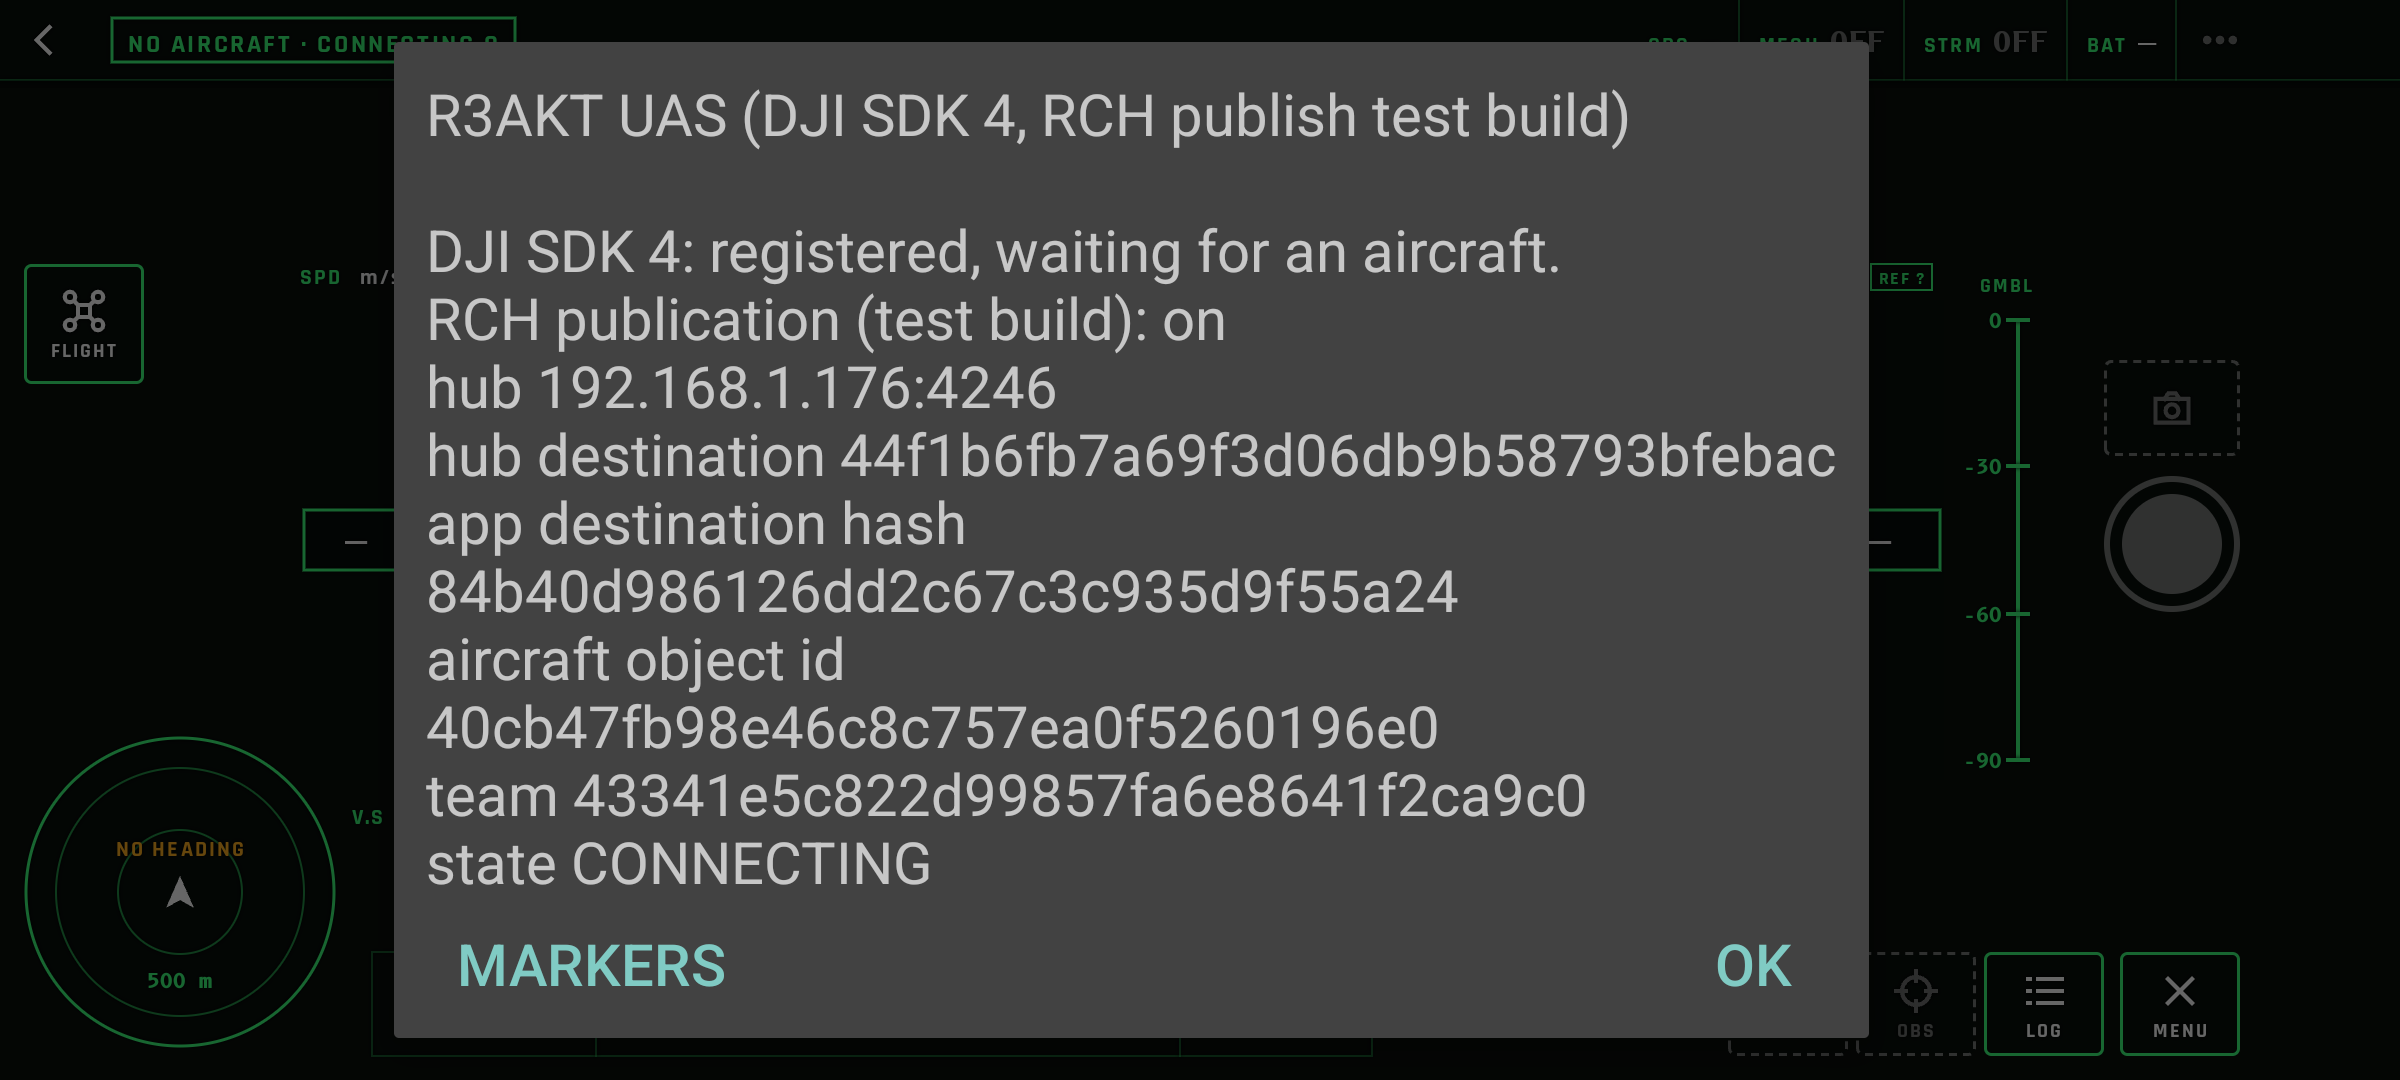
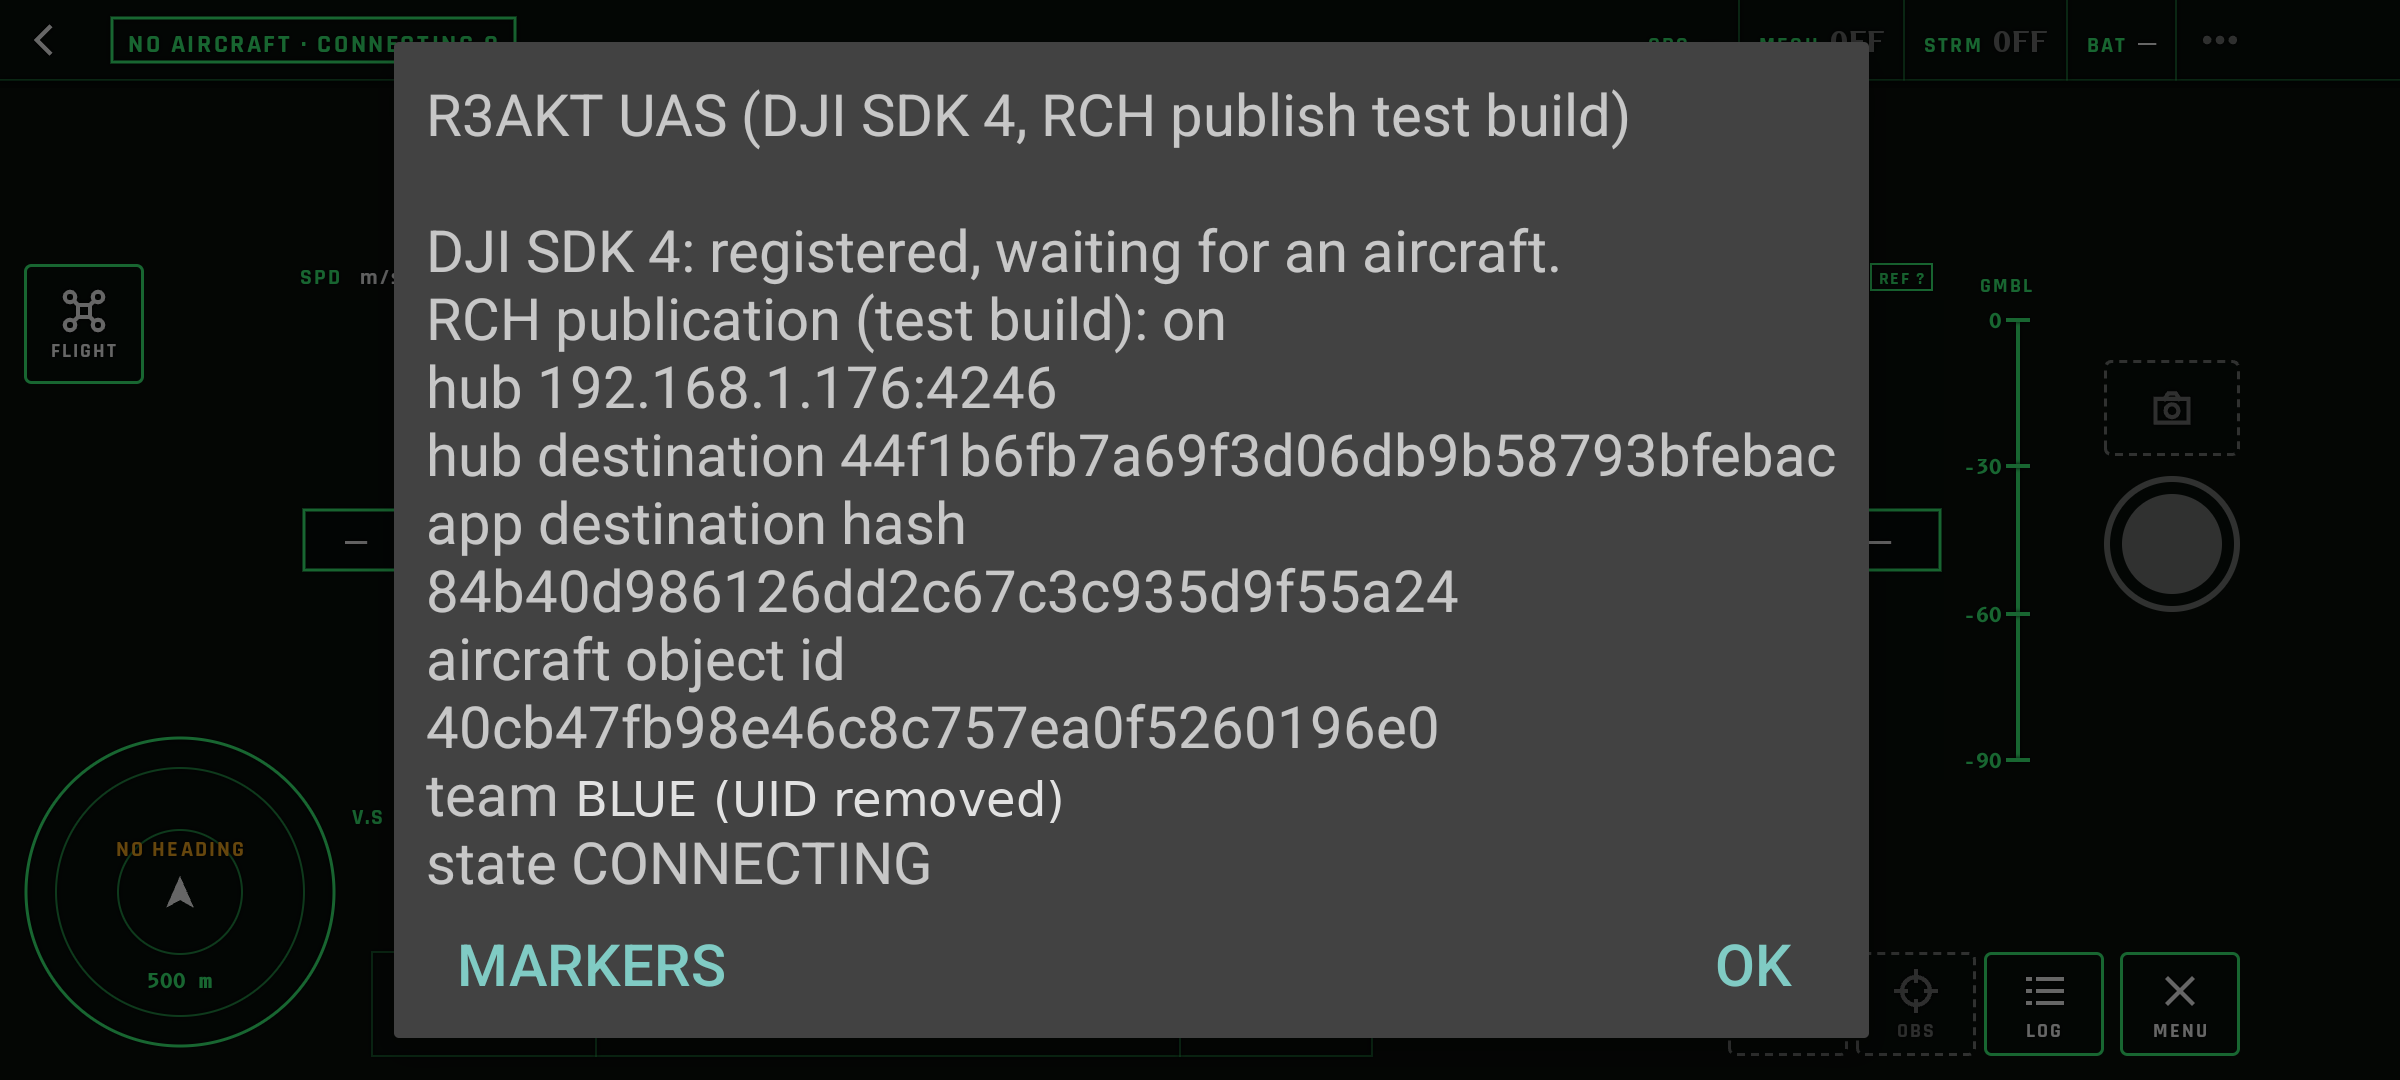
chore: remove the test hub's address, destination and team UID from the repository
Docs use <hub-address>, <hub-destination> and <team-blue-uid> placeholders; Rust tests take
the BLUE UID from r3akt-profile-rch; two evidence screenshots have the UID covered.

Changed region(s): [[0.2188, 0.7028, 0.6562, 0.7639]]

diff --git a/crates/r3akt-uas-app/src/publish.rs b/crates/r3akt-uas-app/src/publish.rs
@@ -842,7 +842,10 @@ mod tests {
         }
     }
 
-    const BLUE: &str = "43341e5c822d99857fa6e8641f2ca9c0";
+    /// RCH's canonical BLUE team UID, from the shared profile.
+    fn blue() -> &'static str {
+        r3akt_profile_rch::teams::canonical_team_uid_for_color("BLUE").unwrap()
+    }
 
     fn decode_one(id: &AppIdentity, s: &TelemetrySample, team: Option<&str>) -> OriginPosition {
         let bytes = fix_message(id, s, team).unwrap();
@@ -862,7 +865,7 @@ mod tests {
         let dir = std::env::temp_dir().join(format!("r3akt-uas-publish-{}", std::process::id()));
         let id = AppIdentity::load_or_create(&dir).unwrap();
 
-        for team in [None, Some(BLUE)] {
+        for team in [None, Some(blue())] {
             let msl = decode_one(&id, &sample(AltitudeReference::Msl), team);
             assert_eq!(
                 (msl.lat, msl.lon, msl.fix_at_ms),
@@ -891,7 +894,7 @@ mod tests {
         }
         // With a team the message is the shared object message (field 3 present);
         // without one it is still step 2a's field-13-only message.
-        let with_team = fix_message(&id, &sample(AltitudeReference::Msl), Some(BLUE)).unwrap();
+        let with_team = fix_message(&id, &sample(AltitudeReference::Msl), Some(blue())).unwrap();
         let without = fix_message(&id, &sample(AltitudeReference::Msl), None).unwrap();
         let keys = |b: &[u8]| {
             let mut k: Vec<String> = r3akt_map_core::msgpack::to_json(b)
@@ -947,7 +950,7 @@ mod tests {
         let err = publish_start(
             String::new(),
             "127.0.0.1:1".to_owned(),
-            BLUE,
+            blue(),
             Some("00112233445566778899aabbccddeeff".to_owned()),
         );
         assert!(
@@ -957,13 +960,12 @@ mod tests {
 
     #[test]
     fn team_uid_is_lower_cased_and_checked() {
-        assert_eq!(hex32(&BLUE.to_ascii_uppercase(), "team UID").unwrap(), BLUE);
-        for bad in [
-            "Blue",
-            "",
-            "43341e5c822d99857fa6e8641f2ca9c",
-            "43341e5c822d99857fa6e8641f2ca9cz",
-        ] {
+        assert_eq!(
+            hex32(&blue().to_ascii_uppercase(), "team UID").unwrap(),
+            blue()
+        );
+        let short = &blue()[..31];
+        for bad in ["Blue", "", short, &format!("{short}z")] {
             assert!(matches!(
                 hex32(bad, "team UID"),
                 Err(PublishError::Config { .. })

diff --git a/crates/r3akt-uas-app/src/markers.rs b/crates/r3akt-uas-app/src/markers.rs
@@ -617,7 +617,7 @@ mod tests {
             (Change::Move, "mission.marker.position.patch"),
             (Change::Delete, "mission.marker.delete"),
         ] {
-            let team = Some("43341e5c822d99857fa6e8641f2ca9c0");
+            let team = r3akt_profile_rch::teams::canonical_team_uid_for_color("BLUE");
             let bytes = message(
                 change,
                 &rec,
@@ -666,7 +666,7 @@ mod tests {
             (rec.marker_type.as_str(), rec.symbol.as_str()),
             ("picture", "picture")
         );
-        let team = Some("43341e5c822d99857fa6e8641f2ca9c0");
+        let team = r3akt_profile_rch::teams::canonical_team_uid_for_color("BLUE");
 
         // Message 1: the create with picture metadata, team field 11 and the thumbnail in field 6.
         let bytes = picture_message(&rec, &capture.thumbnail, "s", team, 1).unwrap();

diff --git a/docs/evidence/m2b-task0-rem-relay-spike.md b/docs/evidence/m2b-task0-rem-relay-spike.md
@@ -12,7 +12,7 @@ Recorded 10 November 2026 on the owner's machine by the agent. No code in this r
 | Hub daemon | `reticulumd` from LXMF-rs `9b972f9a` |
 | REM | `0cfa422` (1.6.1), built from a clean clone following its CI: LXMF-rs `8c27a200` as a sibling, `npm ci`, `npm run mobile:build`, `npx cap sync android`, `cargo +1.99.1 build --target x86_64-linux-android`, `ANDROID_HOME=… ./gradlew :app:assembleDebug` |
 | REM device | Android emulator, x86_64, API 35, portrait. In landscape the setup wizard's fixed header leaves too little room to reach the TCP field. |
-| REM settings | Setup wizard: one TCP endpoint `10.0.2.2:4244` (all community servers unchecked; the default `134.122.46.48:37428` was removed); routing **Connected**, hub `d4f4180cfbfc16d00b52e8408f1a9281`; location and SOS off |
+| REM settings | Setup wizard: one TCP endpoint `10.0.2.2:4244` (all community servers unchecked; the default community server was removed); routing **Connected**, hub `d4f4180cfbfc16d00b52e8408f1a9281`; location and SOS off |
 | Publisher | fresh store; delivery hash `170914f60e71dd664b051c329b1a88df`, object `26924ceabe344616faffab41ce578c37`; 120 s of orbit at 1 Hz, wall-clock fix times |
 
 REM's "Hub identity hash" field takes the hub's **`lxmf.delivery`** hash, which is what REM stores when it picks a hub from heard announces. REM announced as destination `23f92b3d92d817f9b83a491f09af9e91` with capabilities `r3akt`, `emergencymessages`, `telemetry`, `rem.standard_lxmf_receipts.v1`. The hub recorded `client_type` `rem` and `announced_identity_hash` empty, which confirms that membership uses delivery hashes.
@@ -21,9 +21,9 @@ REM's "Hub identity hash" field takes the hub's **`lxmf.delivery`** hash, which 
 
 ```bash
 # The canonical team must be created by UID; {"color":"BLUE"} alone creates a team with a random UID (G-21).
-curl -X POST  $HUB/api/r3akt/teams        -d '{"uid":"43341e5c822d99857fa6e8641f2ca9c0"}'
-curl -X POST  $HUB/api/r3akt/team-members -d '{"team_uid":"43341e5c822d99857fa6e8641f2ca9c0","rns_identity":"170914f60e71dd664b051c329b1a88df","display_name":"R3AKT UAS spike"}'
-curl -X POST  $HUB/api/r3akt/team-members -d '{"team_uid":"43341e5c822d99857fa6e8641f2ca9c0","rns_identity":"23f92b3d92d817f9b83a491f09af9e91","display_name":"REM Beta526"}'
+curl -X POST  $HUB/api/r3akt/teams        -d '{"uid":"<team-blue-uid>"}'
+curl -X POST  $HUB/api/r3akt/team-members -d '{"team_uid":"<team-blue-uid>","rns_identity":"170914f60e71dd664b051c329b1a88df","display_name":"R3AKT UAS spike"}'
+curl -X POST  $HUB/api/r3akt/team-members -d '{"team_uid":"<team-blue-uid>","rns_identity":"23f92b3d92d817f9b83a491f09af9e91","display_name":"REM Beta526"}'
 curl -X PUT   $HUB/api/r3akt/capabilities/170914f60e71dd664b051c329b1a88df/mission.content.write -d '{}'
 ```
 

diff --git a/docs/evidence/m2b-task3-host-proof-rem.md b/docs/evidence/m2b-task3-host-proof-rem.md
@@ -16,9 +16,9 @@ Recorded 10 November 2026 by the agent on the owner's machine. The publisher is 
 ## Hub setup (header `X-API-Key`)
 
 ```bash
-curl -X POST $HUB/api/r3akt/teams        -d '{"uid":"43341e5c822d99857fa6e8641f2ca9c0"}'      # BLUE, by UID (G-21)
-curl -X POST $HUB/api/r3akt/team-members -d '{"team_uid":"43341e5c822d99857fa6e8641f2ca9c0","rns_identity":"9d1a1963c3e150156227425482e695a9","display_name":"REM Sigma633"}'
-curl -X POST $HUB/api/r3akt/team-members -d '{"team_uid":"43341e5c822d99857fa6e8641f2ca9c0","rns_identity":"a8e4643c7f217de46e01f654fc12ece3","display_name":"R3AKT UAS host"}'
+curl -X POST $HUB/api/r3akt/teams        -d '{"uid":"<team-blue-uid>"}'      # BLUE, by UID (G-21)
+curl -X POST $HUB/api/r3akt/team-members -d '{"team_uid":"<team-blue-uid>","rns_identity":"9d1a1963c3e150156227425482e695a9","display_name":"REM Sigma633"}'
+curl -X POST $HUB/api/r3akt/team-members -d '{"team_uid":"<team-blue-uid>","rns_identity":"a8e4643c7f217de46e01f654fc12ece3","display_name":"R3AKT UAS host"}'
 curl -X PUT  $HUB/api/r3akt/capabilities/a8e4643c7f217de46e01f654fc12ece3/mission.content.write -d '{}'
 # the 2a store: same two calls with 4d8ffce8db31d5f2a063a7906f46d191
 ```
@@ -26,10 +26,10 @@ curl -X PUT  $HUB/api/r3akt/capabilities/a8e4643c7f217de46e01f654fc12ece3/missio
 ## Runs
 
 ```bash
-uas-sim --publish 127.0.0.1:4246 44f1b6fb7a69f3d06db9b58793bfebac --store <fresh> --team 43341e5c822d99857fa6e8641f2ca9c0 --seconds 60 --resend-at 30
-uas-sim --publish 127.0.0.1:4246 44f1b6fb7a69f3d06db9b58793bfebac --store <fresh> --team 43341e5c822d99857fa6e8641f2ca9c0 --seconds 30   # restart
+uas-sim --publish 127.0.0.1:4246 44f1b6fb7a69f3d06db9b58793bfebac --store <fresh> --team <team-blue-uid> --seconds 60 --resend-at 30
+uas-sim --publish 127.0.0.1:4246 44f1b6fb7a69f3d06db9b58793bfebac --store <fresh> --team <team-blue-uid> --seconds 30   # restart
 # then REM force-stop and relaunch
-uas-sim --publish 127.0.0.1:4246 44f1b6fb7a69f3d06db9b58793bfebac --store <2a store> --team 43341e5c822d99857fa6e8641f2ca9c0 --seconds 20
+uas-sim --publish 127.0.0.1:4246 44f1b6fb7a69f3d06db9b58793bfebac --store <2a store> --team <team-blue-uid> --seconds 20
 ```
 
 Hub trace for the fresh store (scripts `store.py` and `runs.py` from the [task 5 proof](m2a-task5-hub-host-proof.md); `relays.py` from the [spike](m2b-task0-rem-relay-spike.md)):

diff --git a/docs/evidence/m3-task5-markers-rem-proof.md b/docs/evidence/m3-task5-markers-rem-proof.md
@@ -7,11 +7,11 @@ Recorded 10 November 2026 for branch `feat/m3-markers`.
 - **RCH crates:** `r3akt-map-core` and `r3akt-profile-rch` re-pinned from `f5822210` to `83b5d64aac69347c997ac9e88d84242eb87a1814`, which merges RCH #316 (fixes [RCH #315](https://github.com/FreeTAKTeam/Reticulum-Community-Hub/issues/315)). That revision still pins LXMF-rs `9b972f9a`, so LXMF-rs and Rust 1.89 are unchanged.
 - **Encoder switch:** `markers::message` now calls the shared `r3akt_profile_rch::encode_commands_for_team(commands, team)`. With a team it writes field 9 and field 11; without one it writes field 9 only, as before. Nothing in this repository writes field 11.
 - **Tests:** they check that field 11 is present with a team (decoded with the shared `r3akt_map_core::msgpack::to_json`) and that only key `9` is written without one.
-- **Checks:** clippy and the 15 tests pass, and so does `scripts/check.sh`. The default `sim` and `dji4` builds pass, and both still contain no `publish_`/`marker_` symbols. The `simNet` build with `-Pr3aktTeamUid=43341e5c822d99857fa6e8641f2ca9c0` also passes.
+- **Checks:** clippy and the 15 tests pass, and so does `scripts/check.sh`. The default `sim` and `dji4` builds pass, and both still contain no `publish_`/`marker_` symbols. The `simNet` build with `-Pr3aktTeamUid=<team-blue-uid>` also passes.
 
 ## Task 5 setup
 
-- **Hub:** RCH `83b5d64a` (`r3akt-rch-server` with its `reticulumd` at LXMF-rs `9b972f9a`), with team BLUE `43341e5c…`.
+- **Hub:** RCH `83b5d64a` (`r3akt-rch-server` with its `reticulumd` at LXMF-rs `9b972f9a`), with team BLUE.
 - **Publisher:** the Pixel 7 (`simNet`, lxmf.delivery `8db22674…`), a BLUE member with `mission.content.write`, reaching the hub at its Wi-Fi address.
 - **Recipient:** an unchanged REM `0cfa422` on the x86_64 emulator (`9d1a1963…`, BLUE), reaching the hub at `10.0.2.2:4246`.
 - **Method:** every step was driven through the Pixel's marker panel. Recipient state was read from REM's own `rch_markers` table (`run-as … app_state.db`) and from REM's map.

diff --git a/docs/goals/m2-vertical-slice/PLAN-2b.md b/docs/goals/m2-vertical-slice/PLAN-2b.md
@@ -14,7 +14,7 @@ Status: **PRE gate passed on 10 November 2026** (focused PRE on revision 1, no b
 
 ## What the hub and REM do (read at RCH `f5822210`, REM `0cfa422`)
 
-- RCH relays an object update to REM only when the incoming message carries field 11 equal, byte for byte, to the lowercase UID of one of RCH's canonical colour teams (BLUE is `43341e5c822d99857fa6e8641f2ca9c0`), the sender is a member of that team, and each recipient is a team member whose announce marks it as REM (capabilities `r3akt` and `emergencymessages`). A team name such as "Blue", or an upper-case UID, relays to nobody without an error.
+- RCH relays an object update to REM only when the incoming message carries field 11 equal, byte for byte, to the lowercase UID of one of RCH's canonical colour teams (BLUE is `<team-blue-uid>`), the sender is a member of that team, and each recipient is a team member whose announce marks it as REM (capabilities `r3akt` and `emergencymessages`). A team name such as "Blue", or an upper-case UID, relays to nobody without an error.
 - Membership is matched by **`lxmf.delivery` destination hashes**: the hub records `reticulumd` announces without an identity hash (`r3akt-rch-server/src/lib.rs:2653`), so `canonical_identity_for_rem_source` falls back to the source delivery hash (`r3akt-rch-core/src/rem_team_directory.rs:81-91`), and REM recipients are found by their announce's destination hash (`:201-215`). Both the app and each REM are added to the team with `rns_identity` = their delivery hash.
 - Every relay is re-authorized: `mission.content.write` for the app's delivery hash and the writer binding from the 2a `mission.marker.create` are still required; the create needs no field 11. On a fresh hub the create must arrive before the first object message, as in 2a.
 - The hub rejects a whole message with a different fix at an already stored `fixAtMs` and silently ignores an older fix: fix times stay wall-clock, and the sending clock must not be behind the last fix the hub stored.

diff --git a/packaging/android/README.md b/packaging/android/README.md
@@ -27,10 +27,10 @@ The `simNet` variant publishes the simulator to an RCH hub; `dji4Net` publishes 
 ./gradlew -Pr3aktPublish=true -Pr3aktHubAddress=<host>:4242 -Pr3aktHubDestination=<hub lxmf.delivery hash> [-Pr3aktTeamUid=<RCH canonical team UID>] :app:assembleSimNetDebug   # or :app:assembleDji4NetDebug, which also needs djiApiKey
 ```
 
-For the R3AKT Server, REM's default "R3AKT Server" (`134.122.46.48:37428`, hub destination `c4de028671f01d9649aabb85e73b50a4`), with team BLUE:
+For REM's default "R3AKT Server", with team BLUE (its address, destination and the BLUE UID are not kept in this repository):
 
 ```bash
-./gradlew -Pr3aktPublish=true -Pr3aktHubAddress=134.122.46.48:37428 -Pr3aktHubDestination=c4de028671f01d9649aabb85e73b50a4 -Pr3aktTeamUid=43341e5c822d99857fa6e8641f2ca9c0 :app:assembleDji4NetDebug
+./gradlew -Pr3aktPublish=true -Pr3aktHubAddress=<hub-address> -Pr3aktHubDestination=<hub-destination> -Pr3aktTeamUid=<team-blue-uid> :app:assembleDji4NetDebug
 ```
 
 Publishing starts from MESH → START PUBLISH (the menu button was called LOG before 15 November 2026) and stops when the cockpit screen pauses, but not when DJI's controller screen opens; the status bar then shows `PUBLISH STOPPED` (D-16). Each variant keeps its own identity and store, so the DJI aircraft is a separate object from the simulator on the same phone. `dji4Net` sends a fix only with DJI GPS signal level 3 or better, and without accuracy. Its altitude is take-off-relative, so it travels as an unknown datum. PLACE AT CAMERA is refused because DJI SDK 4 reports no position accuracy (D-15). The hub operator must grant `mission.content.write` to the app destination hash shown in the log before fixes are applied. With a team, the operator also adds that destination hash, and each REM client's destination hash, as members of the team (create the team by its canonical UID); the hub then relays the aircraft to those REM clients.

diff --git a/docs/evidence/m2b-task4-device-proof.md b/docs/evidence/m2b-task4-device-proof.md
@@ -12,7 +12,7 @@ Recorded 10 November 2026 by the agent on the owner's machine.
 ```bash
 ./gradlew -Pr3aktPublish=true -Pr3aktHubAddress=192.168.1.176:4246 \
   -Pr3aktHubDestination=44f1b6fb7a69f3d06db9b58793bfebac \
-  -Pr3aktTeamUid=43341e5c822d99857fa6e8641f2ca9c0 :app:assembleSimNetDebug
+  -Pr3aktTeamUid=<team-blue-uid> :app:assembleSimNetDebug
 ```
 
 - **App identity:** installed over the step 2a test build, so the app kept its identity: delivery hash `8db226748847da27261859bff6e54ebe`, object `0e58ea922931b02480c580a06b19d76d`.
@@ -22,7 +22,7 @@ Recorded 10 November 2026 by the agent on the owner's machine.
 
 ## Pixel 7
 
-![Pixel 7 session log: hub, destination hash, object, team 43341e5c…, state SENT, last sent fix](m2b-simnet-pixel7-log.png)
+![Pixel 7 session log: hub, destination hash, object, team BLUE, state SENT, last sent fix](m2b-simnet-pixel7-log.png)
 
 | Step | Hub |
 |---|---|

diff --git a/docs/evidence/dji-net-tasks-1-3.md b/docs/evidence/dji-net-tasks-1-3.md
@@ -50,7 +50,7 @@ Recorded 10 November 2026 for branch `feat/dji-net`; plan: [DJI field-trial buil
 
 ## Debug build against the R3AKT Server
 
-- **Hub:** REM's default "R3AKT Server" at `134.122.46.48:37428`, hub destination `c4de028671f01d9649aabb85e73b50a4`, team BLUE.
+- **Hub:** REM's default "R3AKT Server" (`<hub-address>`, hub destination `<hub-destination>`), team BLUE.
 - **Builds:** `simNet` and `dji4Net` were built for it, and the port is reachable.
 - **Simulator check from the Pixel:**
   - result: hub connected; the aircraft create was sent; 40 fixes went to LXMF in about 40 s at 1 Hz;
